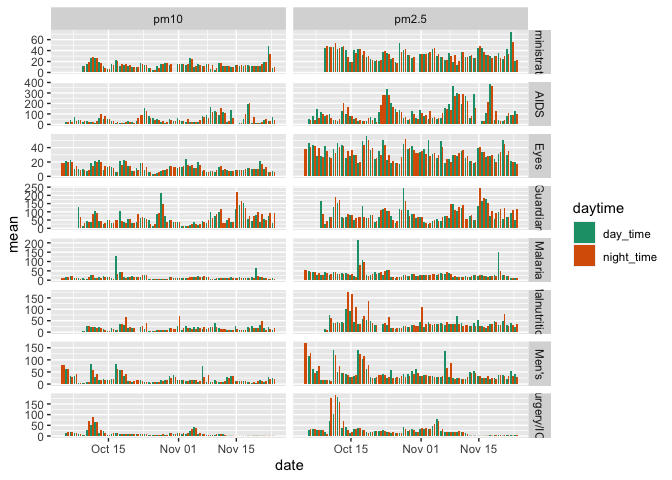
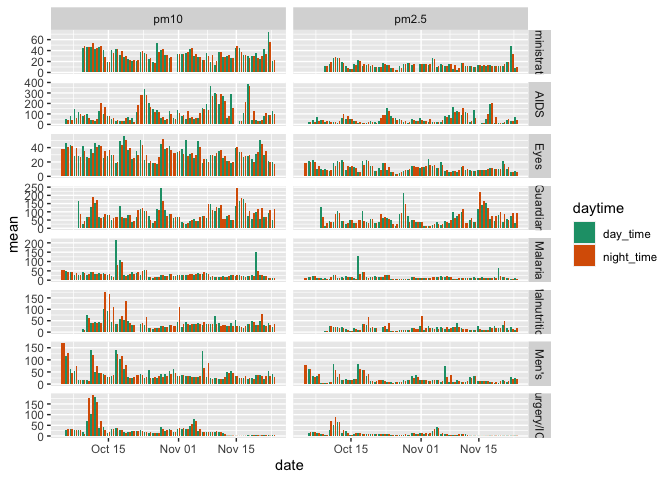
Update plots with for variables

diff --git a/README.md b/README.md
@@ -28,6 +28,11 @@ outside wall.
 -   MJC → Pediatric Surgery/ICU
 -   Moyo —&gt;Malnutrition
 
+## Sensor locations
+
+-   Guardian Shelter, Ward 3b, Mercy James, and Lighthouse are outside,
+    the rest would be inside
+
 # Data Exploration
 
 TODO List:
@@ -85,14 +90,14 @@ TODO List:
 
 | location       | pm10 | pm2.5 |
 |:---------------|-----:|------:|
-| Administration |    0 |    14 |
-| AIDS           |   50 |  1689 |
+| Administration |    1 |     4 |
+| AIDS           |  676 |   350 |
 | Eyes           |    0 |     0 |
-| Guardian       |   66 |   642 |
-| Malaria        |    6 |    93 |
-| Malnutrition   |    0 |   194 |
-| Men’s          |    0 |   147 |
-| Surgery/ICU    |    1 |   144 |
+| Guardian       |  178 |   359 |
+| Malaria        |   18 |    19 |
+| Malnutrition   |   43 |    18 |
+| Men’s          |   15 |     4 |
+| Surgery/ICU    |   37 |    15 |
 
 ## Plot: Ratio between PM10 and PM2.5 range from minimum to maximum (WIP)
 
